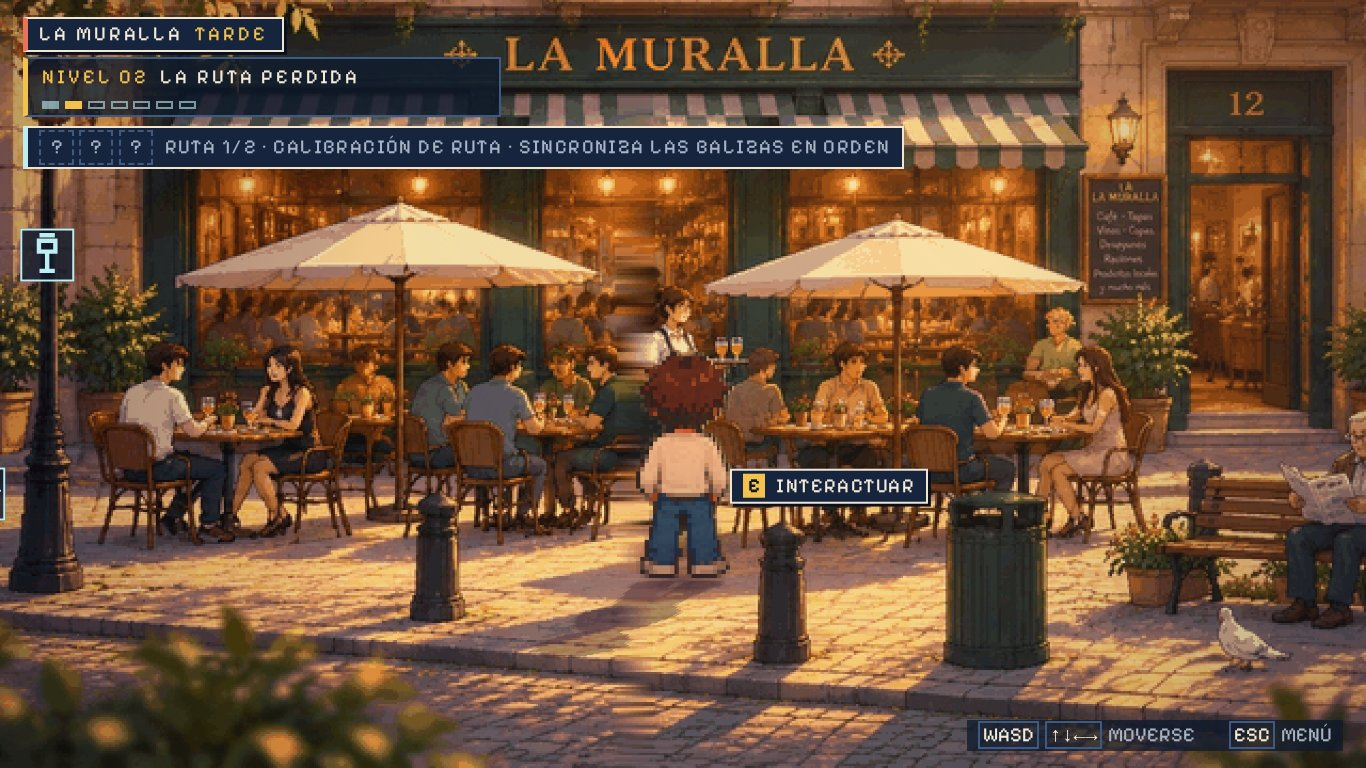
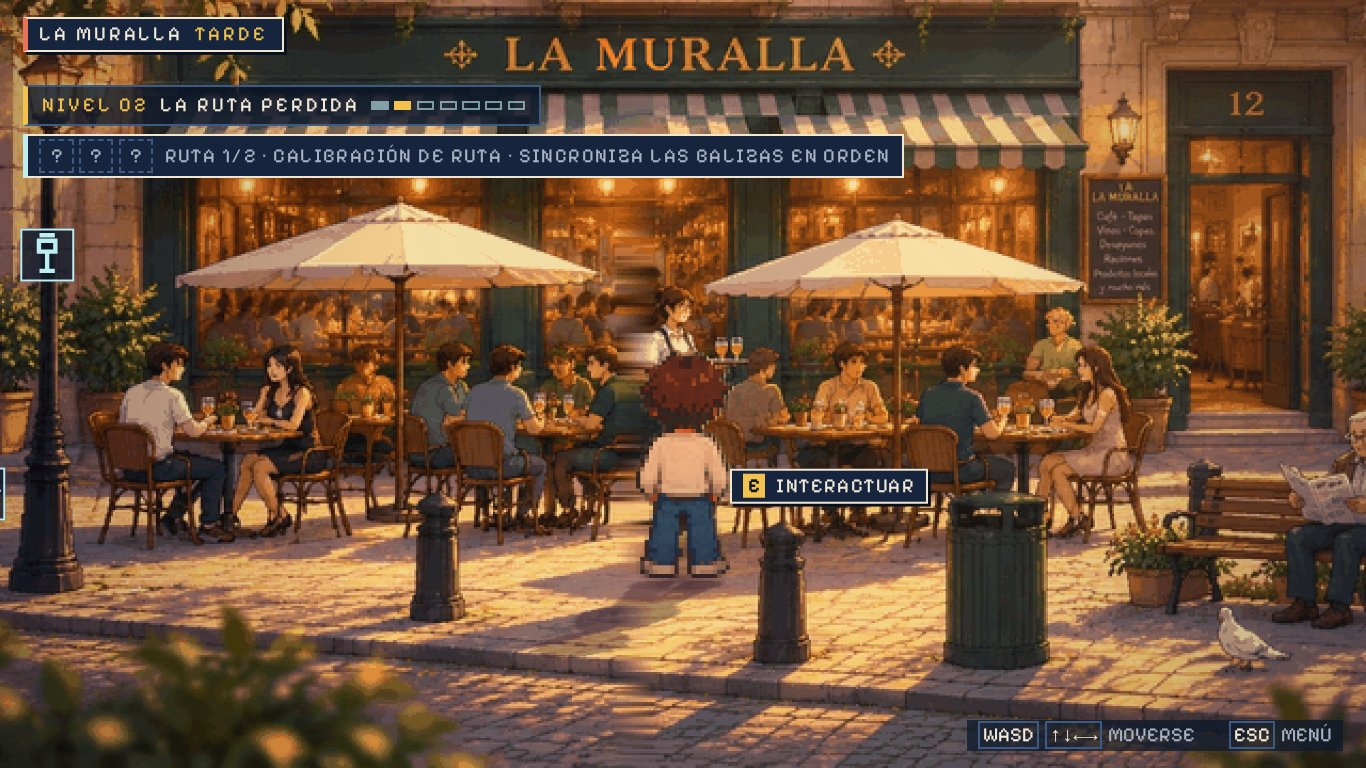
D-085/D-086 final evidence from fbc01a6: matrix, persistence cases, menus, HUD; README
Claude-Session: https://claude.ai/code/session_015xUSvqRNqmKmYbhJw8XPeQ

Changed region(s): [[0.0, 0.0625, 0.6764, 0.25]]

diff --git a/docs/art/review/audit/README.md b/docs/art/review/audit/README.md
@@ -1,4 +1,8 @@
-# Auditoría de producción — evidencia (PR #2, D-083)
+# Auditoría de producción — evidencia (PR #2, D-083 → D-086)
+
+> **Estado final: código `fbc01a6`** (D-085 recalibración + D-086 guarda del
+> menú de derrota). La sección «D-085 / D-086 — validación final» es la
+> vigente; las secciones «Histórico» se conservan como referencia.
 
 Capturas nuevas, solo de las escenas modificadas en esta ronda. Chromium
 (Playwright), servidor de desarrollo salvo `prod-*` (build con
@@ -15,7 +19,7 @@ Capturas nuevas, solo de las escenas modificadas en esta ronda. Chromium
 | Menú de derrota con flecha mantenida | `*-boss-defeat-menu-held-key` (`REINTENTAR`), `1920-boss-assist-menu-held-key` (`ACTIVAR`) |
 | Ritmo (contenido nuevo) | `1920-14-beacons-round-2-pattern`, `*-22-terminal` |
 
-## Matriz de recorridos completos (código `eadf26c`)
+## Histórico — matriz anterior a D-085 (código `eadf26c`)
 
 `tools/qa/playthrough.mjs`: partida nueva hasta SAVE SLOT con teclado real
 (Playwright), 6 recargas en checkpoints, comprobación de consola, scroll,
@@ -40,7 +44,7 @@ Producción (`vite build --base=/save-slot-02/`, 1920, `tools/qa/prod-smoke.mjs`
 corrupto, v1 heredado, sin almacenamiento) sin errores, sin peticiones
 fallidas, sin hooks de QA y sin scroll.
 
-## Partida a ritmo de lectura (medida)
+## Histórico — partida a ritmo de lectura anterior a D-085
 
 `tools/qa/playthrough-paced.mjs`, 1920×1080, movimiento normal:
 
@@ -62,3 +66,93 @@ conociendo las soluciones, camina en línea recta sin explorar, y esquiva la
 gaviota y el jefe leyendo su estado por los hooks de desarrollo. Todo ello
 acorta el tiempo respecto a una primera partida real, así que 14 min es una
 cota inferior aproximada, no la duración humana.
+
+## D-085 / D-086 — validación final (código `fbc01a6`)
+
+Evidencia en [`d085/`](d085/) (54 capturas, todas de `fbc01a6`). Scripts en
+`tools/qa/`.
+
+### Matriz de recorridos completos (`tools/qa/playthrough.mjs`)
+
+Partida nueva hasta SAVE SLOT, incluida la recalibración obligatoria, con 7
+recargas (`overworld` ×4 —una a mitad de la recalibración—, `player2Reveal`,
+`ending`, `saveSlot`).
+
+| Resolución | Movimiento | Bot | Consola | Scroll | Inglés | Recargas | Viernes | Recalibración | Gaviota | Jefe |
+| --- | --- | --- | --- | --- | --- | --- | --- | --- | --- | --- |
+| 1366×768 | reducido | 373 s | 0 | no | 0 | 7/7 | bloqueado | guardada | guardada | 3 intentos |
+| 1366×768 | normal | 312 s | 0 | no | 0 | 7/7 | bloqueado | guardada | guardada | 1 intento |
+| 1440×900 | reducido | 399 s | 0 | no | 0 | 7/7 | bloqueado | guardada | guardada | 3 intentos |
+| 1440×900 | normal | 307 s | 0 | no | 0 | 7/7 | bloqueado | guardada | guardada | 1 intento |
+| 1920×1080 | reducido | 388 s | 0 | no | 0 | 7/7 | bloqueado | guardada | guardada | 3 intentos |
+| 1920×1080 | normal | 414 s | 0 | no | 0 | 7/7 | bloqueado | guardada | guardada | 3 intentos |
+
+En 5 de 6 el servidor de desarrollo registra 2 peticiones de fuente Pixelify
+fallidas (solo dev; en producción 0).
+
+**Fallos de herramienta distinguidos de fallos del juego** (todos
+reejecutados de forma fiable):
+
+- Marca «gaviota guardada» leída antes de que el panel se cerrara (1366/1440):
+  el script ahora espera a que se cierre; el juego sí la guardaba (el terminal
+  se abría después).
+- Carrera al sembrar el guardado antes de que la app terminara de arrancar
+  (`recal-flow`, 1366): el script ahora siembra tras el arranque.
+- **Fallo real del juego** (1366 reducido, antes de D-086): una flecha nueva
+  pulsada en el instante de la derrota abría el menú en `VOLVER AL TÍTULO`.
+  Corregido en D-086 y repetida toda la validación.
+
+### Casos de persistencia (`tools/qa/recal-flow.mjs`, 1366 / 1440 / 1920)
+
+| Caso | Resultado en las tres |
+| --- | --- |
+| Partida nueva: terminal → recalibración obligatoria → jefe | pasa (matriz: recalibración guardada antes del jefe en 6/6) |
+| Recalibración pendiente: CONTINUAR → La Muralla, 6 casillas | `overworld`, 0/6 |
+| Recarga con 2/6 sincronizadas | vuelve a la recalibración pendiente y **reinicia la ronda (0/6)**: el progreso parcial no se guarda |
+| Completarla → jefe | `boss`, `route.recalibration` guardado |
+| Guardado antiguo con `boss.attempts > 0` sin recalibración | `boss` (la salta) |
+| Recalibración ya completada | `boss` (no se repite) |
+| Caso límite: terminal hecho, última escena el jefe, 0 intentos (anterior a esta versión) | `boss` |
+
+### HUD apilado
+
+`*-recal-hud-terrace`, `*-recal-hud-door12` (cámara desplazada a la derecha),
+`*-level-02-calibrating-hud`, `*-level-04-recalibrating-hud`,
+`*-newgame-level-03-hud`: la pila empieza bajo el rótulo `LA MURALLA` y no
+tapa a Luis ni las marcas de las balizas. Con la cámara a la derecha, la
+etiqueta de ubicación `LA MURALLA TARDE` (anterior y congelada) sigue
+cubriendo parte del inicio del rótulo.
+
+### Menú de derrota / asistencia (`tools/qa/boss-held-key.mjs`)
+
+| Resolución | Flecha mantenida al perder | Flecha nueva al perder | Pulsación 0,5 s después |
+| --- | --- | --- | --- |
+| 1366 / 1440 / 1920 | `REINTENTAR` | `ACTIVAR` (ignorada) | `AHORA NO` (navega) |
+
+Sin la guarda (`MENU_GUARD_MS = 0`) la flecha nueva movía el cursor.
+
+### Producción (`tools/qa/prod-smoke.mjs`, `--base=/save-slot-02/`, 1920)
+
+9 escenas sembradas (overworld, recalibración pendiente → overworld, jefe,
+reveal, dateGate, ending, guardado corrupto, v1 heredado, sin
+almacenamiento): 0 errores, 0 peticiones fallidas, sin hooks de QA, sin
+scroll.
+
+### Duración a ritmo de lectura (`tools/qa/playthrough-paced.mjs`, 1920, normal)
+
+Condiciones idénticas a la medición histórica (texto normal sin saltos,
+lectura a 15 car./s + 0,5 s por página, secuencias vistas enteras, pausas de
+decisión). Sigue sin ser una partida humana: el bot conoce las soluciones y
+esquiva por los hooks de desarrollo.
+
+| Medición | Código | Neto | Terminal → jefe | Jefe | Intentos del jefe |
+| --- | --- | --- | --- | --- | --- |
+| Anterior | `0cfa6ab` (sin recalibración) | **840 s** (14,0 min) | 14 s | 128 s | 2 |
+| Con recalibración | `c0c264a` | **987,5 s** (16,5 min) | 151 s | 174 s | 3 |
+
+Desglose de los +147 s netos: ≈ **+134 s** atribuibles a la recalibración
+(tramo terminal → jefe, descontando ≈ 3 s de una recarga de QA); ≈ **+46 s**
+por el tercer intento del jefe en esa partida; ≈ −33 s de variación en el
+resto (p. ej. gaviota 36 → 25 s).
+
+Segunda medición sobre `fbc01a6`: en curso (PACED3).
